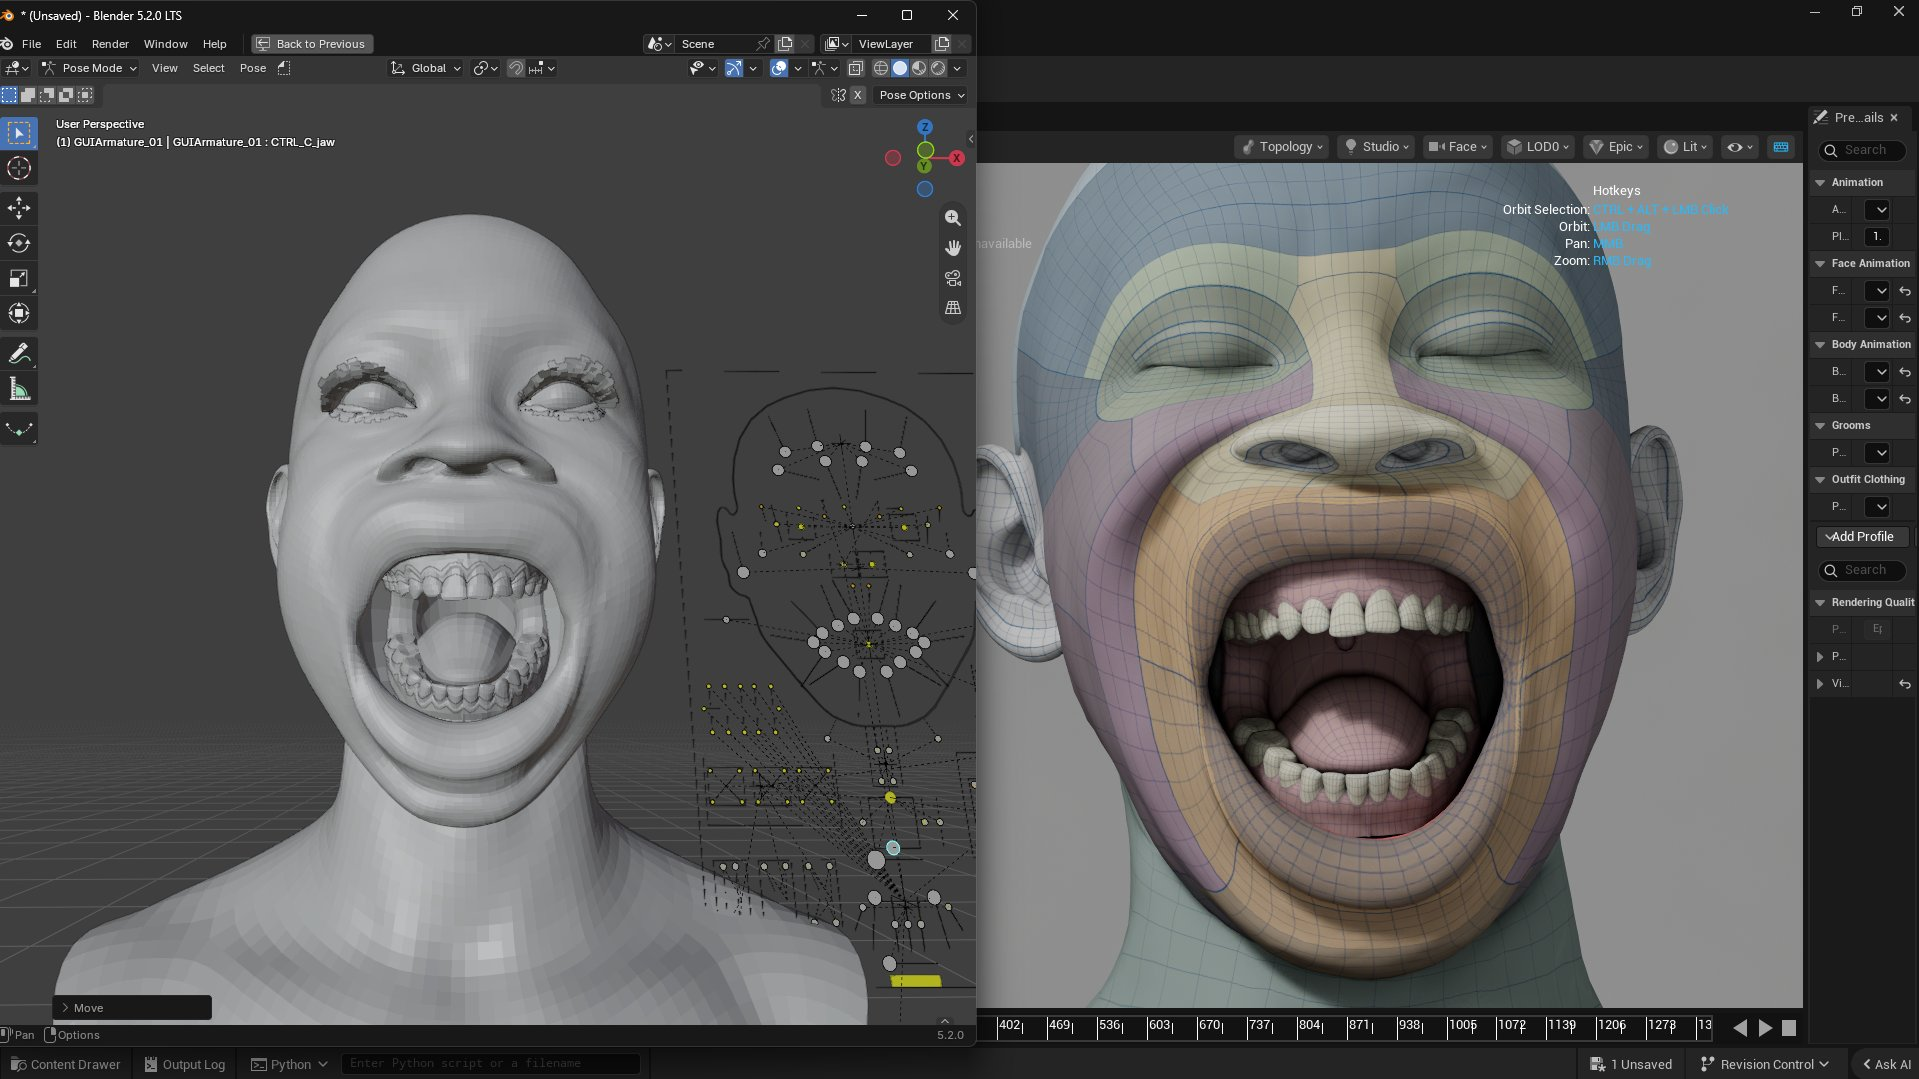
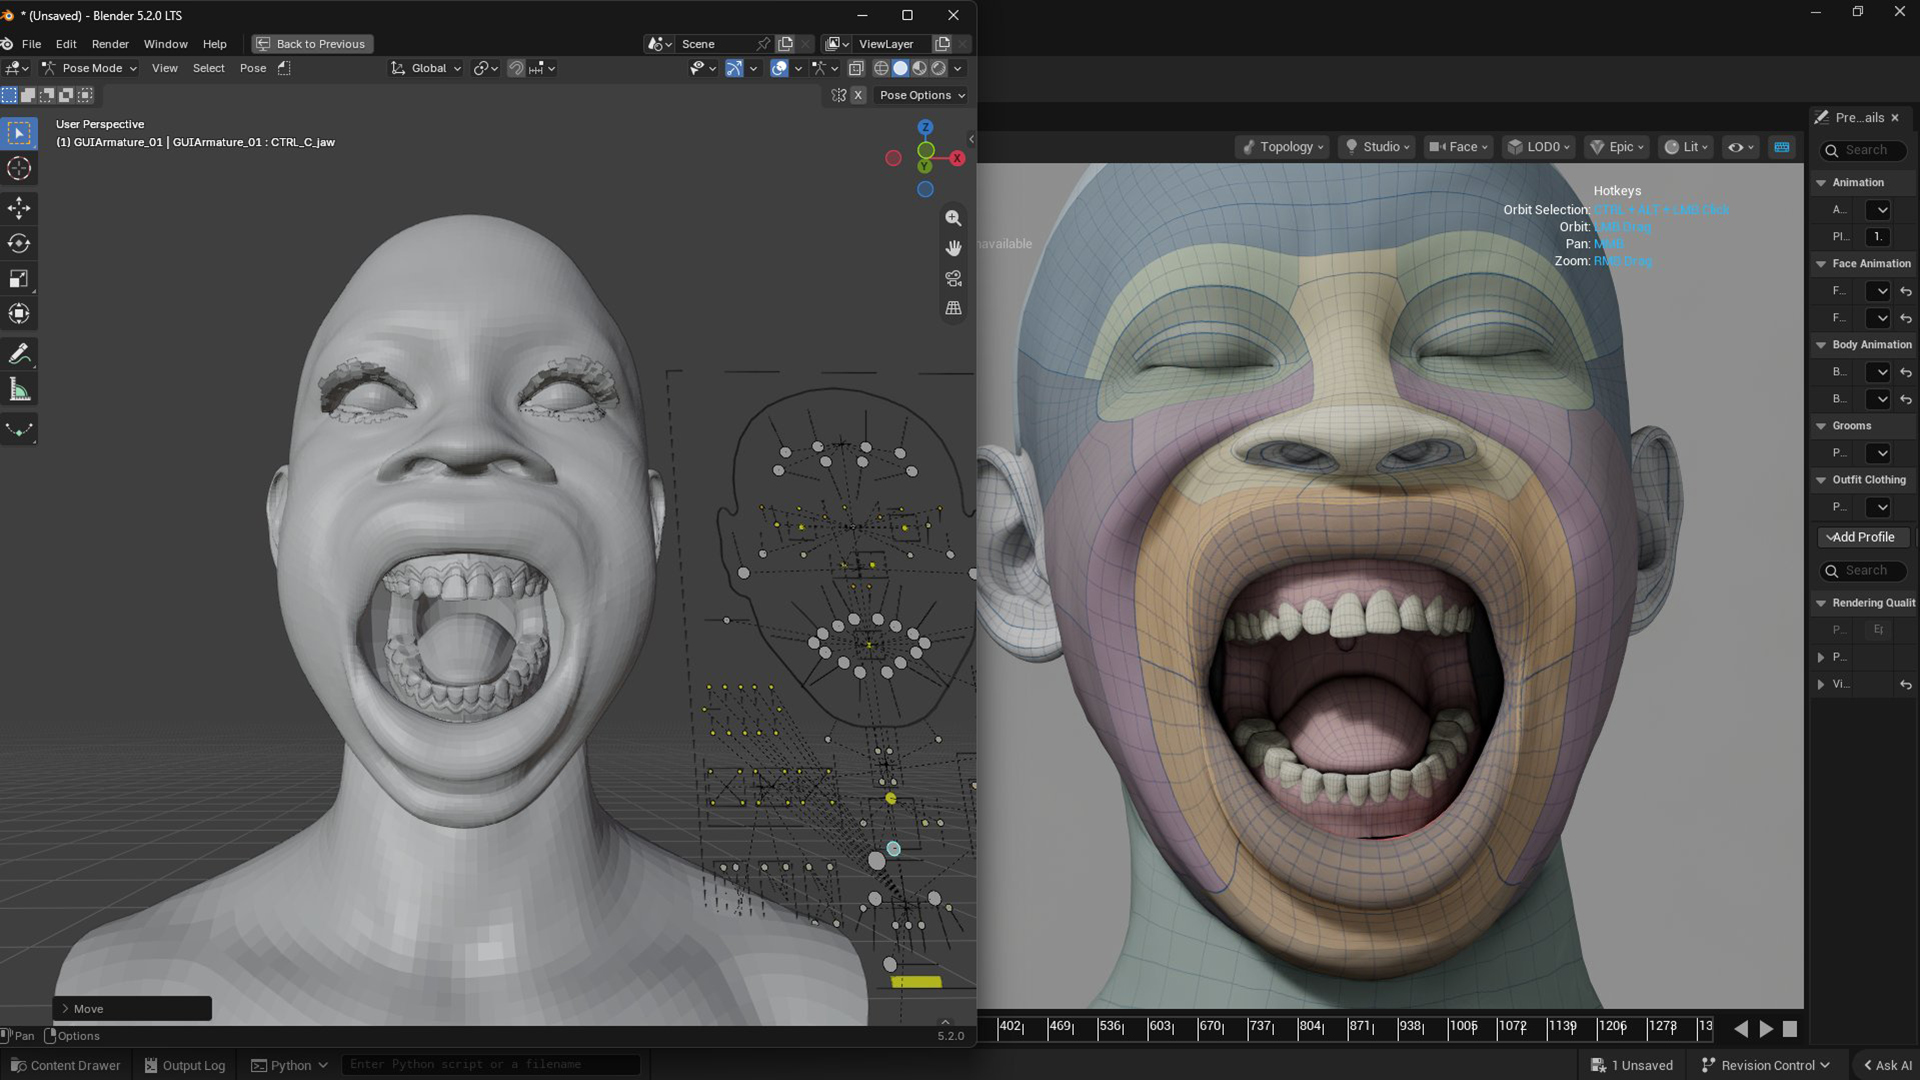
2.0

diff --git a/docs/index.md b/docs/index.md
@@ -7,7 +7,14 @@
 
 ## What's New
 
-**v1.9.0 — Marvelous Designer round trip, send corrections to Unreal, spine rebuild, face correction fixes**
+**v2.0.0 — Now a Blender Extension, Marvelous Designer round trip, send corrections to Unreal, spine rebuild, face correction fixes**
+
+*Now a Blender Extension*
+
+- **MetaBridge DNA is now a Blender Extension.** Install it the way Blender expects: drag the `.zip` into Blender, or **Edit ▸ Preferences ▸ Add-ons ▸ Install from Disk**. Updating and removing work from that same place, like every other extension.
+- **Passes Blender's extension checks cleanly** — no warnings of any kind.
+- The addon no longer claims names for itself across the whole of Blender, so it cannot clash with another MetaHuman addon that carries its own copy of the same libraries. Both can now be installed at once.
+- Nothing about how you use the addon has changed. Everything sits in the same panels.
 
 *MD Live (NEW)*
 
@@ -15,7 +22,8 @@
 - **Send Body to MD** hands the character over as the avatar. Reshape the body, press it again, and the avatar is replaced — never doubled up.
 - No import window on the Marvelous Designer side, and nothing to type in: the character simply appears.
 - **Import Garment from MD** brings the finished clothes back at the right size, fitted to the character and following the rig immediately — the same as any other clothing.
-- **Skip Stitches & Trims** leaves out the topstitch, button and zipper meshes, which carry most of a garment file's weight and none of what it needs to be worn.
+- **Skip Stitches & Trims** leaves out the topstitch, button and zipper meshes when Marvelous Designer exports them as separate pieces. When it exports the whole garment as one piece instead, hide them in Marvelous Designer before exporting.
+- Dressing a character is now roughly twice as fast — a step that reshaped the garment and left every vertex exactly where it was has been removed. This applies to all clothing, not just Marvelous Designer garments.
 - The panel shows the garment waiting to be imported and warns you when it is large enough to take a while.
 - Sizes and the shared folder are remembered, so the setup is done once and never again.
 
@@ -33,6 +41,24 @@
 - Face corrections now play back on their own. They previously worked only in Manual mode.
 - Fixed a correction sculpted on a posed face being applied twice, making the expression too strong when sent to the `.dna`.
 - Corrections no longer take a long pause on a full-resolution head.
+
+*Face rig*
+
+- Fixed the tongue roll control being draggable downward with nothing happening — this character's DNA only rolls the tongue one way, so the control now stops where it runs out.
+
+*Hair and beards*
+
+- **NEW: Bind Hair To Head** — hair or a beard that came from anywhere other than this addon's own Import Hair can now be attached to the character in one click. There was previously no way to do it; **Retarget Hair** only refreshed an attachment that already existed.
+- **Hair now follows Body Blend.** Changing the character's shape while a face control was selected used to leave the beard behind — it only kept up when nothing on the face was selected.
+- **Retarget Hair now creates what's missing.** It used to re-bind an existing Surface Deform and do nothing at all if there wasn't one.
+- Grooms imported from Alembic get their place on the head worked out automatically, instead of Blender refusing them with "invalid surface UVs".
+- When hair does not follow, the reason is now written to the console instead of the hair just sitting still.
+
+*Materials*
+
+- **`material_defaults.json` now actually applies.** The file was being read into nothing, so every value in it was ignored — subsurface, alpha, roughness. Saving defaults silently failed for the same reason.
+- Transparent parts (eye shell, eyelashes, cartilage, saliva) now render see-through instead of solid.
+- Values are applied every time a character is assembled, not only the first time its materials are created.
 
 *Sharing files with other people*
 
@@ -67,6 +93,19 @@ With it you can:
 - Export everything back to DNA, FBX, or glTF
 
 Everything is in one place: open the **N panel** on the right side of the 3D Viewport, and look for the **MetaBridge DNA** tab.
+
+## Installing
+
+MetaBridge DNA is a Blender Extension. Either:
+
+- drag `metabridge_dna-2.0.0.zip` into the Blender window, or
+- **Edit ▸ Preferences ▸ Add-ons ▸ Install from Disk**, and pick the `.zip`.
+
+Blender needs **4.5 or newer**, and Windows 64-bit.
+
+Updating and removing are done from **Edit ▸ Preferences ▸ Add-ons**, the same as any other extension.
+
+If you were using an earlier version installed the old way, remove it first — Blender will otherwise load both and the panels appear twice.
 
 ![metabridge_dna01.png](assets/metabridge_dna01.png)
 
@@ -422,6 +461,8 @@ If deformation looks off in an extreme pose at a tight spot (armpits, between th
 
 - **Import Hair...** — imports a `.abc` groom and parents it to the head. Defaults are tuned for MetaHuman groom exports (**Scale 0.01**, **Rotation X -90°, Z -180°**) — adjust in the operator panel (bottom-left after import) if your source is different.
 - **Bind To Head Surface** (on by default) — hair follows the head as it deforms, including through Body Blend changes, without collapsing onto the scalp.
+- **Bind Hair To Head** — for hair that came from somewhere else: a groom already in your scene, a beard that came with the character, or anything imported outside this addon. Select it and click. It then follows the head exactly like hair imported here, Body Blend included. Hair already attached is simply re-attached to where the head is now.
+- If hair sits still while the character's shape changes, the reason is written to the console — usually that it was never bound. Select it and use **Bind Hair To Head**.
 
 **Good to know:**
 
@@ -549,26 +590,34 @@ MD Live is its own panel in the sidebar, next to **MetaBridge DNA**.
 The folder and every setting are remembered, so this is a one-time step.
 
 **Sending the character**
-![MD_live.gif](assets/MD_live.gif)
+
 1. Click **Send Body to MD**.
 2. In Marvelous Designer, click the MetaBridge avatar entry in the **Plug-in** menu.
 
 The character appears as the avatar. No import window, no settings to fill in. Change the body in Blender, press **Send Body to MD** again, click the same menu entry again — the avatar is replaced, and you never end up with two.
 
-Turn on **Include Head** if you're making hats or collars.
+**Include Head** is on by default — Marvelous Designer refuses an avatar without a head, and hats and collars need it too.
 
 **Bringing the clothes back**
 
 1. In Marvelous Designer, click the MetaBridge garment entry in the **Plug-in** menu.
 2. In Blender, click **Import Garment from MD**.
-![export_Garment.gif](export_Garment.gif)
+
 The garment arrives at the right size, is fitted to the character, and follows the rig straight away — the same as any other clothing in [section 7](#7-wearables-experimental). Pick the **Category** so it replaces what it should.
 
 **Skip Stitches & Trims** (on by default) leaves out the topstitch, button and zipper meshes. They carry most of the file's weight and none of it is needed to wear the garment.
 
+**If the import takes a while**
+
+Reading the file is quick even at 600 MB. The wait is the fitting: every vertex of the garment has to be matched to the body so it moves with the character. A garment carrying its topstitches can reach three million vertices, and almost all of them are stitching.
+
+**Hide the topstitches, buttons and zippers in Marvelous Designer before you export.** Hidden objects are left out of the file, and the import goes from about a minute to a few seconds. Nothing is lost — they aren't needed to wear the garment, and they're still in your Marvelous Designer project.
+
+You can also lower **Particle Distance** in Marvelous Designer if the garment is denser than it needs to be.
+
 **Good to know**
 
-- The panel shows the garment waiting to be imported and how big it is. Above 100 MB it warns you — hide the trims in Marvelous Designer before exporting and the file shrinks a lot.
+- The panel shows the garment waiting to be imported and how big it is. Above 100 MB it warns you.
 - **Send Scale** and **Import Scale** are already correct. Only touch them if what arrives is obviously the wrong size; Blender tells you the size it imported in the status bar.
 - Marvelous Designer's own **Auto Fit** expects avatars from its library. **Prepare for Auto-Fit** (on by default) asks it to treat this character the same way.
 
